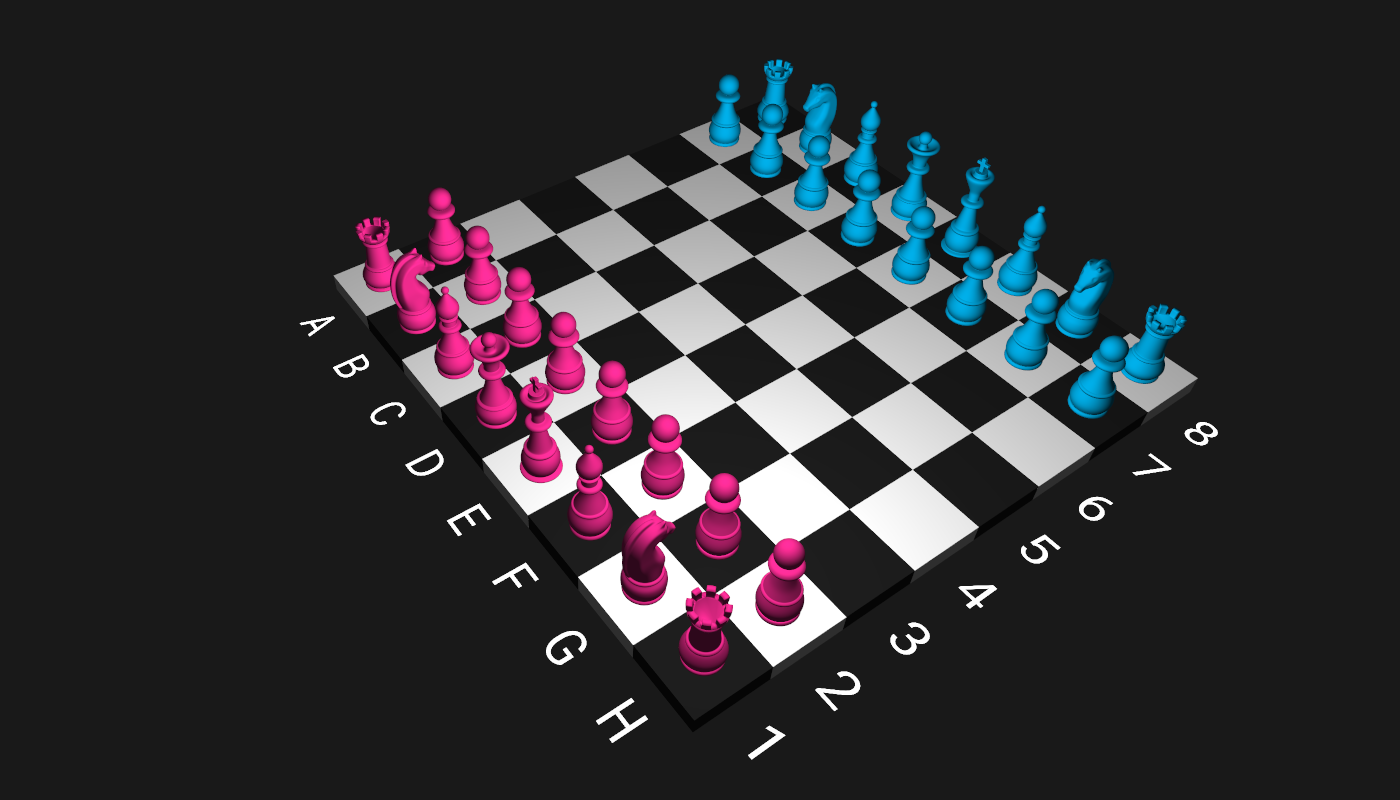
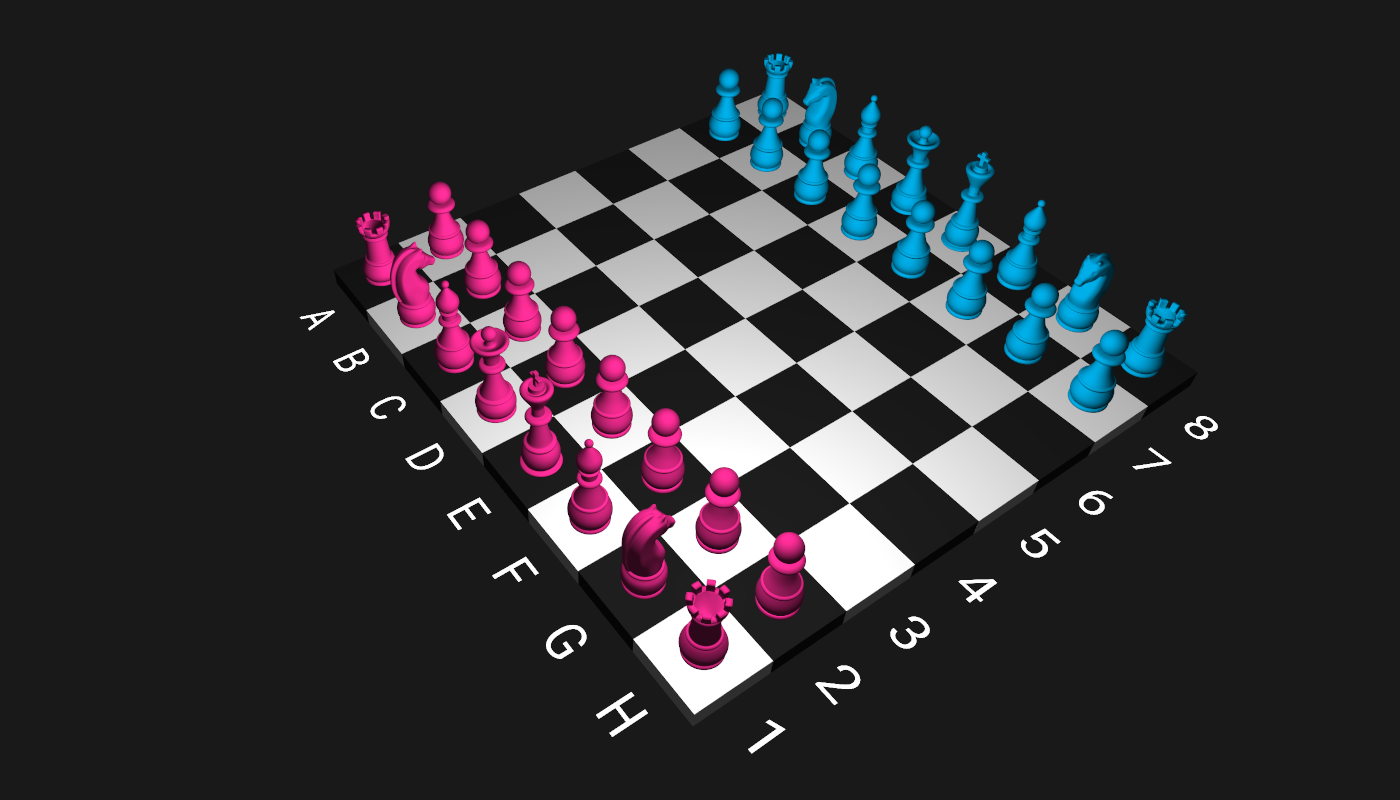
Flip black and white tiles to correct order

diff --git a/chess_game/source/board.cpp b/chess_game/source/board.cpp
@@ -19,7 +19,7 @@ auto build_checkerboard(glm::vec3 tile_size, const apeiron::opengl::Cuboid* whit
 
   int flip = 0;
   for (int i=0; i<64; ++i) {
-    checkerboard.emplace_back(++flip % 2 ? black : white);
+    checkerboard.emplace_back(++flip % 2 ? white : black);
     checkerboard.back().set_position(x, y, z);
     checkerboard.back().set_size(tile_size);
     x += tile_size.x;
